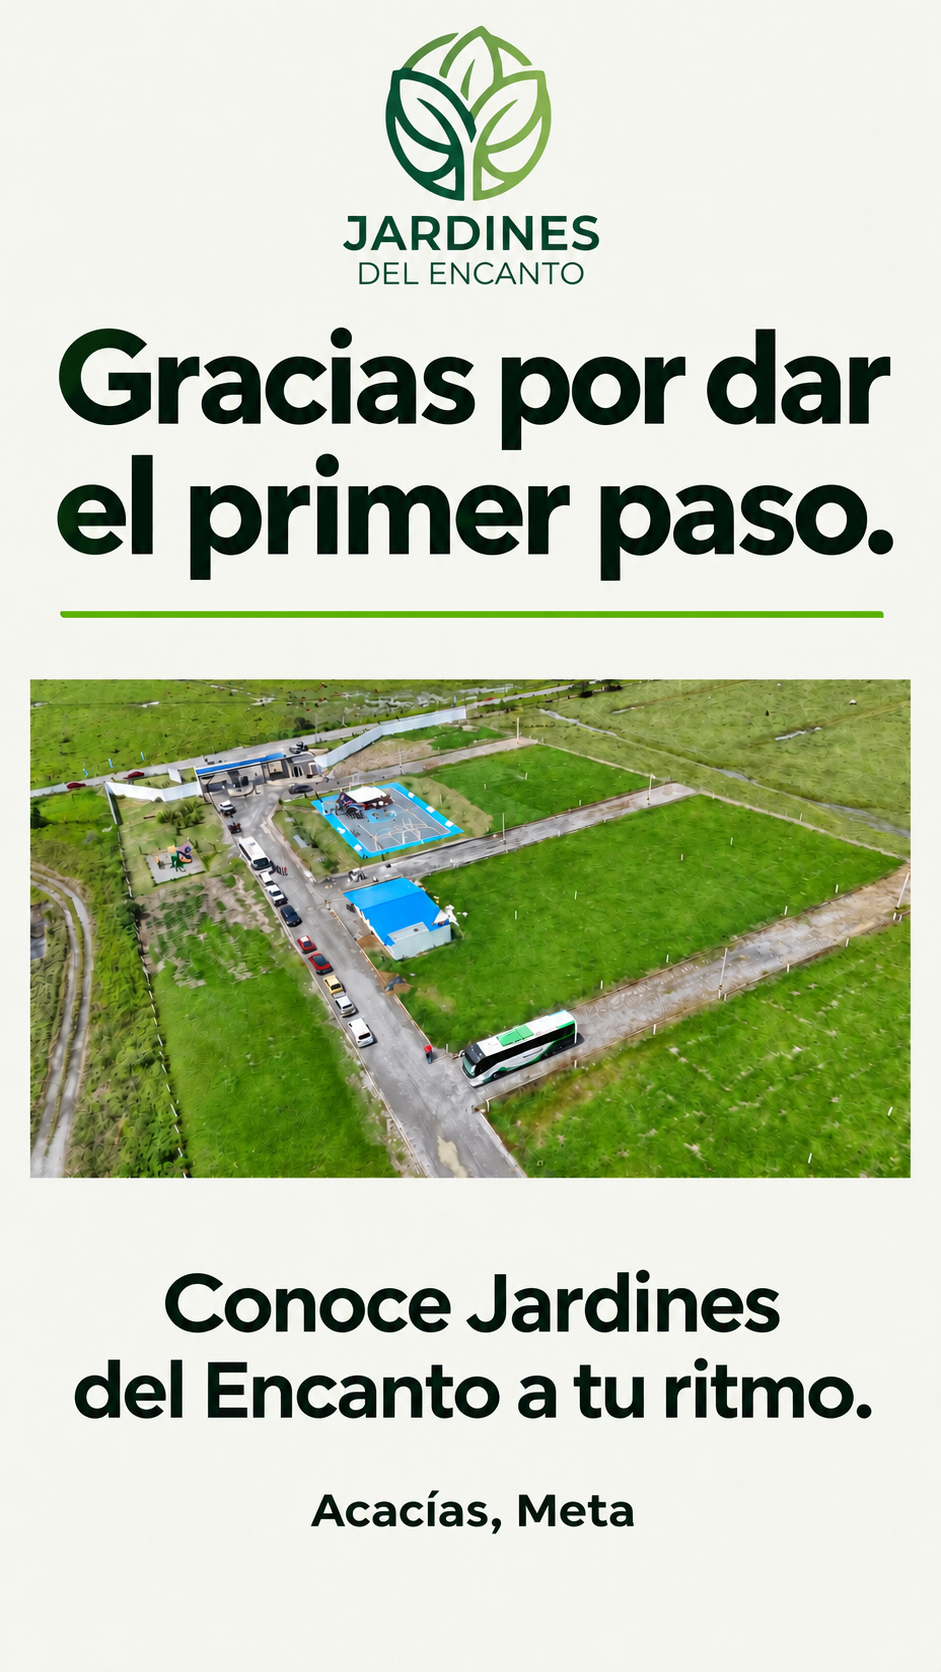
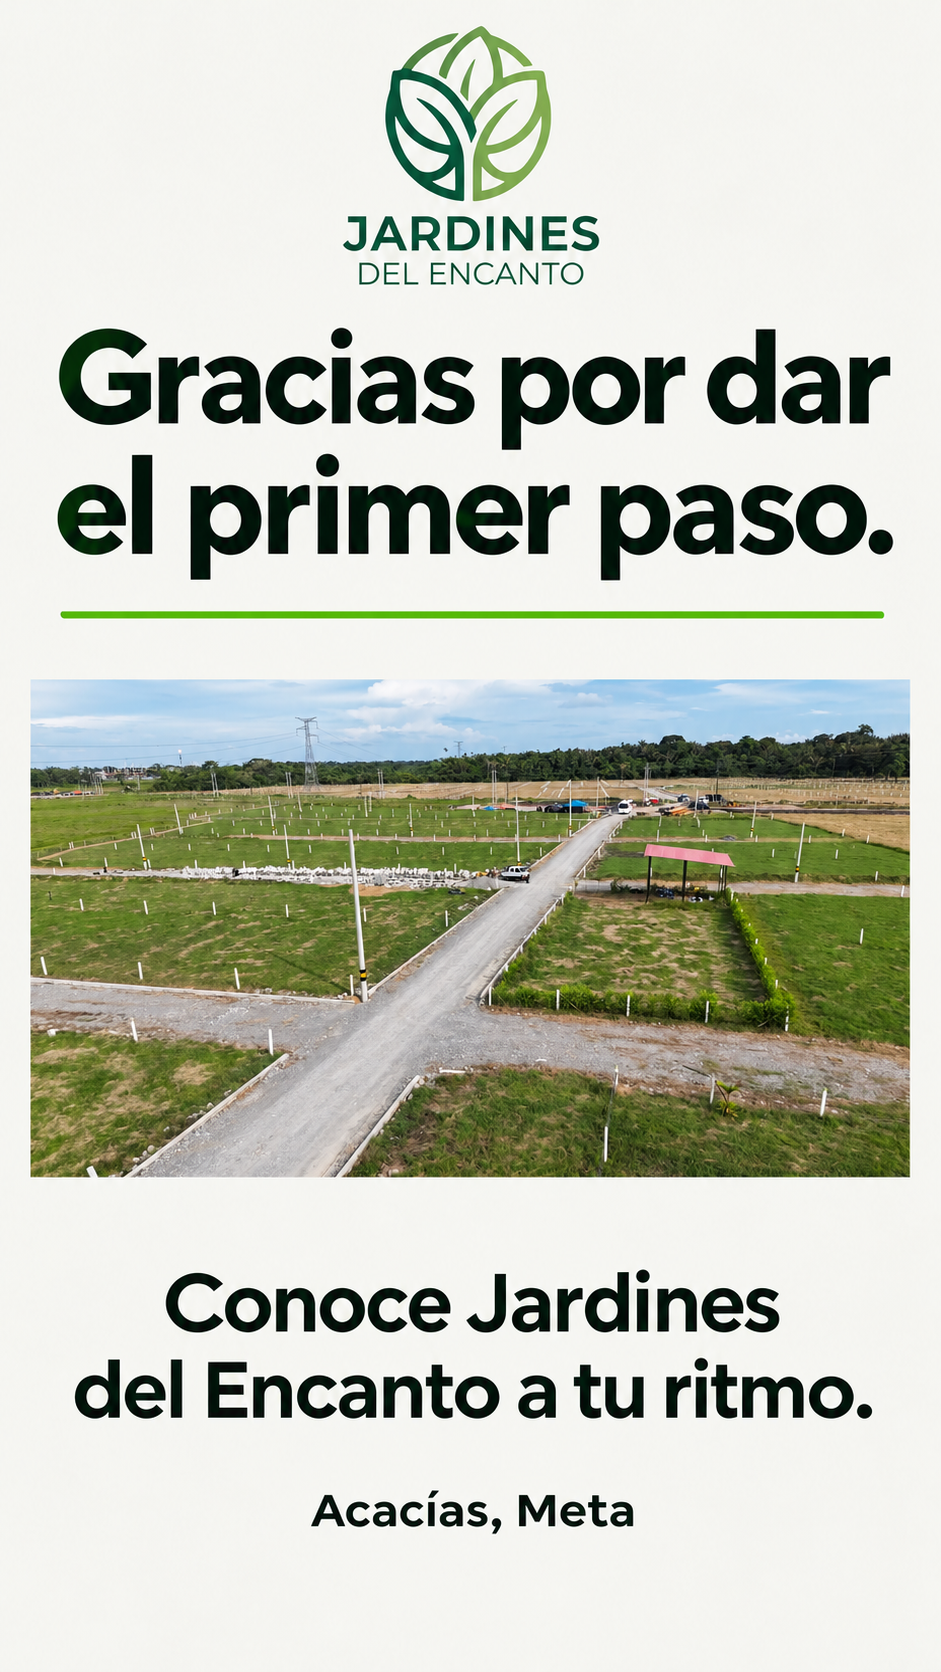
fix(campaigns): refresh template photos with owner site images

Changed region(s): [[0.0308, 0.4043, 0.9862, 0.7153], [0.5547, 0.1244, 0.6472, 0.1866], [0.4006, 0.1244, 0.4931, 0.1866]]

diff --git a/docs/CAMPAIGN-DRAFTS.md b/docs/CAMPAIGN-DRAFTS.md
@@ -147,6 +147,30 @@ QR codes, testimonials, sales deadlines or illustration captions were requested.
 Earlier local visual revisions remain separate, with source locators in
 `assets/campaign-drafts/2026-11/official-logo-manifest.json`.
 
+### Owner photo refresh — November 16, 2026
+
+The owner requested the same fifteen pieces with only their property photographs
+replaced by two newly supplied site photographs. The original source copies are
+`assets/campaign-drafts/2026-11/source-photos/owner-lots-roads.png` and
+`assets/campaign-drafts/2026-11/source-photos/owner-entrance-court.png`.
+Pieces 03, 07, 10 and 14 use the entrance/court photograph; the remaining pieces
+use the lots/roads photograph. All fifteen existing private PNG paths and dimensions
+are retained, so the existing image selections continue to resolve.
+
+Each built-in `image_gen` edit received the original poster as its edit target and
+one owner photograph as its replacement input. The prompt requested replacement
+of the photograph rectangle only, preserving the logo, layout, colors, typography,
+Spanish copy and commercial qualifications, without inventing property features.
+The full outputs were visually checked. This remains reference-guided image editing,
+not a guarantee of pixel-identical preservation outside the photograph.
+
+The manifest records updated hashes, prior hashes and the source photograph for
+each piece. Message documents, variables, dates, button definitions and review
+snapshots are unchanged. This local refresh does not submit to Meta, change an
+existing provider template or send messages. Production publication remains a
+separate authorized release. Previously issued image capabilities remain bound to
+their original hashes; changed image bytes do not inherit previous review approval.
+
 ## Verification
 
 - API tests: strict models, 15 valid seeds, seven dates, authenticated private media,
